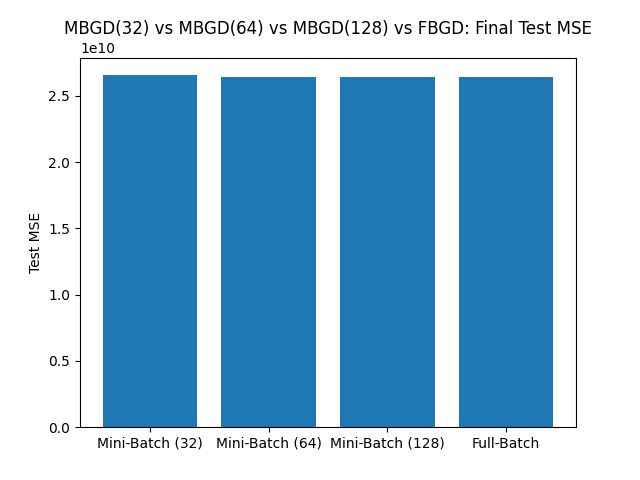
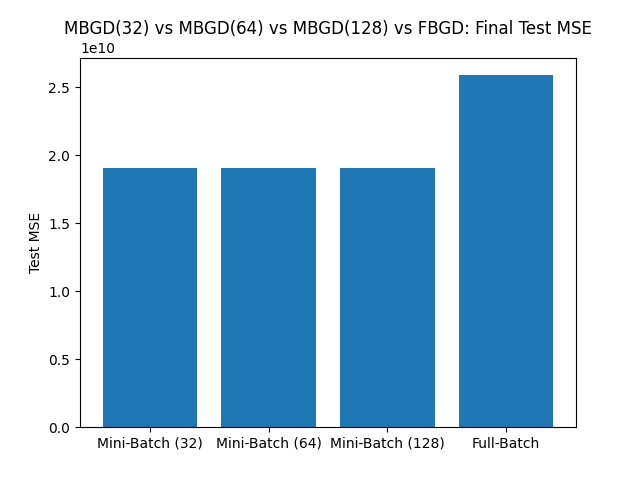
polynomial regression + new graphs

diff --git a/model_analysis.py b/model_analysis.py
@@ -5,7 +5,7 @@ from minibatch import MiniBatch
 from data_cleaning import Data_cleaning
 from hyperparameter_tuning import Hyperparameter_tuning
 from sklearn.model_selection import train_test_split
-from sklearn.preprocessing import StandardScaler
+from sklearn.preprocessing import PolynomialFeatures, StandardScaler
 from sklearn.metrics import mean_squared_error
 hyperparameter_tuning = Hyperparameter_tuning()
 data_cleaning = Data_cleaning()
@@ -33,10 +33,15 @@ X_scaled = scaler.fit_transform(X)
 #y = scaler.fit_transform(y.reshape(-1, 1)).flatten()
 
 # intercept 
-X_scaled = np.c_[np.ones(X_scaled.shape[0]), X_scaled]
+#X_scaled = np.c_[np.ones(X_scaled.shape[0]), X_scaled]
+
+poly = PolynomialFeatures(degree=2, include_bias=False)
+X_poly = poly.fit_transform(X_scaled)
+X_train, X_test, y_train, y_test = train_test_split(X_poly, y, test_size=0.2, random_state=42)
+
 
 # train/test split
-X_train, X_test, y_train, y_test = train_test_split(X_scaled, y, test_size=0.2, random_state=42)
+#X_train, X_test, y_train, y_test = train_test_split(X_scaled, y, test_size=0.2, random_state=42)
 
 # hyperparameter tuning
 best_learning_rate, best_regularization_parameter, best_epoch = hyperparameter_tuning.get_best_param(X_train, X_test, y_train, y_test)

diff --git a/hyperparameter_tuning.py b/hyperparameter_tuning.py
@@ -6,9 +6,9 @@ class Hyperparameter_tuning:
 
     def get_best_param(self, X_train, X_test, y_train, y_test):
         param = {
-            'learning_rate': [0.001, 0.005, 0.01],
-            'regularization_parameter': [0.001, 0.005, 0.01],
-            'epoch': [30, 50, 100]
+            'learning_rate': [0.00005, 0.00002, 0.00001],
+            'regularization_parameter': [0.00005, 0.00002, 0.00001],
+            'epoch': [20, 30, 40]
         }
 
         best_mse = float('inf')
@@ -27,5 +27,6 @@ class Hyperparameter_tuning:
                 best_learning_rate = learning_rate
                 best_regularization_parameter = regularization_parameter
                 best_epoch = epoch
+        print(best_learning_rate, best_regularization_parameter, best_epoch)
 
         return best_learning_rate, best_regularization_parameter, best_epoch
